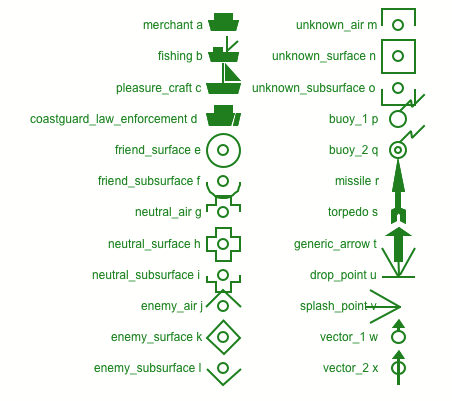
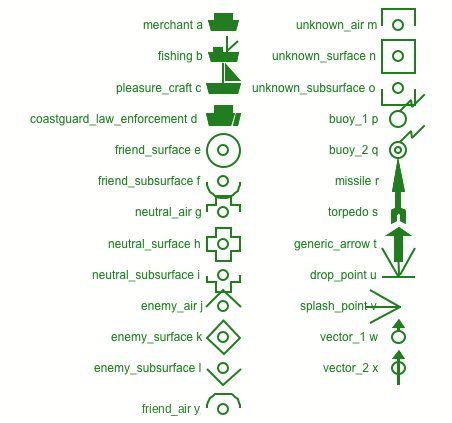
Index Friendly Air SVG symbol as 'y' (#5209)
- SymbolFactory: add friend_air to the indexed SVG symbols as 'y' (still
  available by name for backwards compatibility)
- REP tracks can now use 'y' symbology; export writes 'y' back out
- User guide: add 'y' row to symbol table and indexed symbols image
- shapes.rep sample: add FRIENDLY_AIR track and 'y' annotation
- Tests for factory mapping, REP import/export and sample data

Claude-Session: https://claude.ai/code/session_01Pt76uWKZvvGAfRMch7kja7

diff --git a/org.mwc.cmap.legacy/src/MWC/GUI/Shapes/Symbols/SymbolFactory.java b/org.mwc.cmap.legacy/src/MWC/GUI/Shapes/Symbols/SymbolFactory.java
@@ -170,6 +170,18 @@ public final class SymbolFactory {
 			assertEquals("correct symbol found", torpedoCharacter, torpedoCharacterGenerated);
 		}
 
+		/**
+		 * friend_air is indexed as 'y', but must still be available by name
+		 */
+		public void testFriendAirFromChar() {
+			final String expectedSymbol = SVG_FORMAT_PREFIX + ":friend_air";
+			assertEquals("Friend air symbol returned", expectedSymbol, SymbolFactory.createSymbolFromId("y"));
+			assertEquals("correct symbol found", "y", SymbolFactory.findIdForSymbolType(expectedSymbol));
+			assertNotNull("still available by name", SymbolFactory.createSymbol(expectedSymbol));
+			// characters after the indexed range are not mapped
+			assertNull("z not indexed", SymbolFactory.createSymbolFromId("z"));
+		}
+
 	}
 
 	public static final String KINGPIN = "Kingpin";
@@ -258,11 +270,16 @@ public final class SymbolFactory {
 			+ "coastguard_law_enforcement,friend_surface,friend_subsurface,neutral_air,"
 			+ "neutral_surface,neutral_subsurface,enemy_air,enemy_surface,enemy_subsurface,"
 			+ "unknown_air,unknown_surface,unknown_subsurface,missile," + BUOY_1 + "," + BUOY_2 + ","
-			+ "torpedo,generic_arrow,drop_point,splash_point,vector_1,vector_2,"
+			+ "torpedo,generic_arrow,drop_point,splash_point,vector_1,vector_2,friend_air,"
 			+ "anomaly,bottomed_mine,cleared,countermeasure,decoy,decoy_aw," + "decoy_uw,enemy_subsurface"
 			+ ",flagged_marker,floating_mine,friend_air,"
 			+ "highlights_1,highlights_2,jammer,mine_like_object,moored_mine,"
 			+ "tagged_marker,torpedo,uav_1,uav_2,usv_1," + "usv_2,usv_3,usv_4,usv_5,wreck,xxx_contact";
+	/**
+	 * the last character that has an indexed SVG symbol (the first is 'a')
+	 */
+	private static final char LAST_SVG_INDEX = 'y';
+
 	/**
 	 */
 	private static SymbolFactory _theFactory;
@@ -356,7 +373,7 @@ public final class SymbolFactory {
 			final String[] svgIconsName = SVG_INDEX.split(",");
 			// Since we have the SVG Icons properly ordered,
 			// we can just add the reserved character
-			for (char c = 'a'; c <= 'x'; c++) {
+			for (char c = 'a'; c <= LAST_SVG_INDEX; c++) {
 				final String completeName = SVG_FORMAT_PREFIX + ":" + svgIconsName[c - 'a'];
 				_theVesselIds.put(completeName, c + "");
 			}

diff --git a/org.mwc.debrief.legacy/src/Debrief/ReaderWriter/Replay/ImportReplay.java b/org.mwc.debrief.legacy/src/Debrief/ReaderWriter/Replay/ImportReplay.java
@@ -609,7 +609,11 @@ public class ImportReplay extends PlainImporterBase {
 			ImportReplay.initialise(new ImportReplay.testImport.TestParent(ImportReplay.IMPORT_AS_OTG, 0L));
 			trackImporter.importThis(shape_file, bs, tLayers);
 
-			assertEquals("read in track", 15, tLayers.size());
+			assertEquals("read in track", 16, tLayers.size());
+
+			final TrackWrapper airTrack = (TrackWrapper) tLayers.findLayer("FRIENDLY_AIR");
+			assertEquals("indexed svg symbol used", SymbolFactory.SVG_FORMAT_PREFIX + ":friend_air",
+					airTrack.getSymbolType());
 
 			final TrackWrapper track = (TrackWrapper) tLayers.findLayer("NEL STYLE");
 			assertNotNull("found track", track);
@@ -744,6 +748,27 @@ public class ImportReplay extends PlainImporterBase {
 		 * assertEquals("Amount of segment in new segment test", 3, legList.size()); } }
 		 * }
 		 */
+
+		public void testTrackSvgSymbol() throws IOException, ParseException {
+			final String text = "951212 112700.000 FRIEND_AIR_INDEXED   yC   22  7  0.63 N 21 45 14.91 W 334.9   2.0      0 \n"
+					+ "951212 112700.000 FRIEND_AIR_NAMED   @C[SYMBOL=friend_air]   22  7  0.63 N 21 45 14.91 W 334.9   2.0      0 ";
+
+			final ImportReplay importReplay = new ImportReplay();
+			final Layers dummyLayers = new Layers();
+			importReplay.setLayers(dummyLayers);
+			for (final String line : text.split("\n")) {
+				importReplay.readLine(line);
+			}
+
+			final String friendAir = SymbolFactory.SVG_FORMAT_PREFIX + ":friend_air";
+			final TrackWrapper indexed = (TrackWrapper) dummyLayers.findLayer("FRIEND_AIR_INDEXED");
+			assertEquals("indexed symbol applied to track", friendAir, indexed.getSymbolType());
+			final TrackWrapper named = (TrackWrapper) dummyLayers.findLayer("FRIEND_AIR_NAMED");
+			assertEquals("named symbol applied to track", friendAir, named.getSymbolType());
+
+			// and check it's written back out using the index
+			assertEquals("exported with index", "yC", replaySymbolFor(DebriefColors.RED, friendAir));
+		}
 
 		public void testTrailingComment() {
 			final String test1 = " LABEL // COMMENT";

diff --git a/SAMPLE_DATA.md b/SAMPLE_DATA.md
@@ -277,7 +277,7 @@ sample_data/                          86 MB total
 
 | File | Size | Description |
 |------|-----:|-------------|
-| `shapes.rep` | 18 KB | Rectangles, lines, circles, vectors, text labels, SVG symbols |
+| `shapes.rep` | 18 KB | Rectangles, lines, circles, vectors, text labels, SVG symbols (incl. `FRIENDLY_AIR` track using indexed SVG symbol `y`) |
 | `boat_1_2_arcs.rep` | 3.9 KB | Sensor arc definitions for NELSON/COLLINGWOOD |
 | `formatter.rep` | 240 B | Display formatting directives (symbol/label/arrow intervals) |
 
